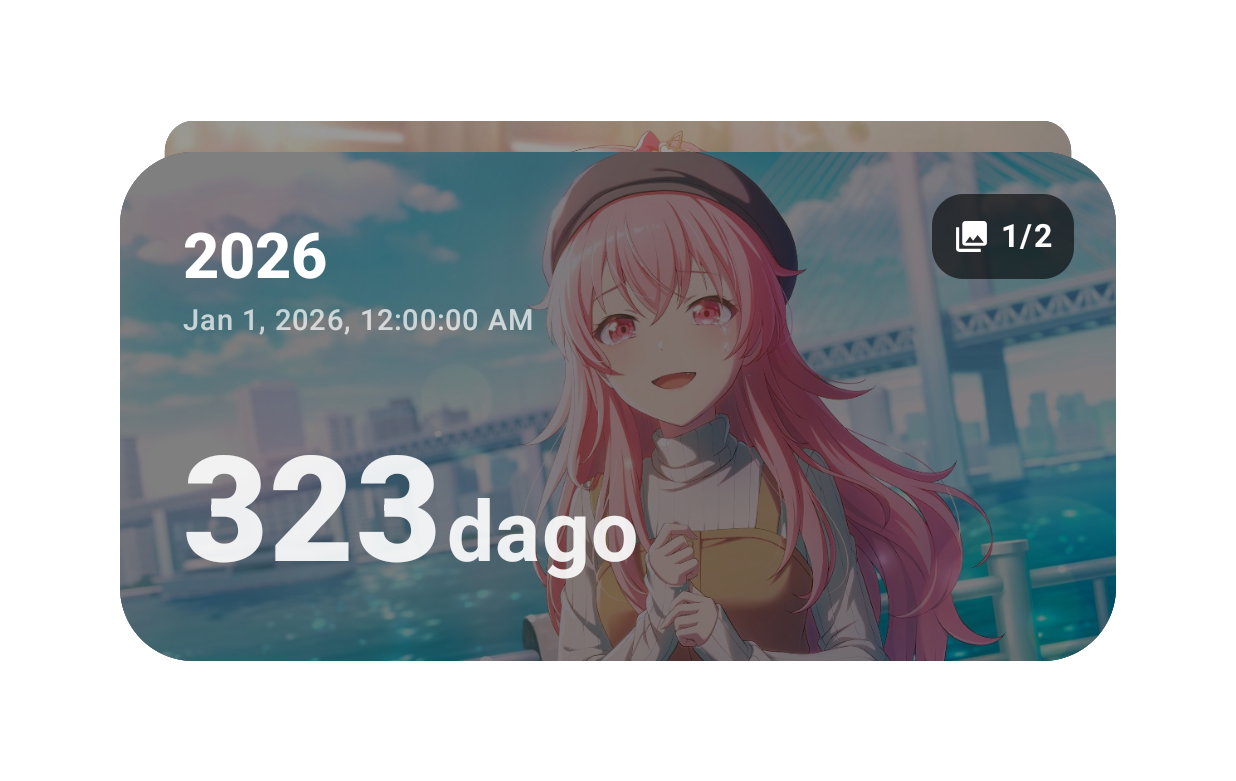
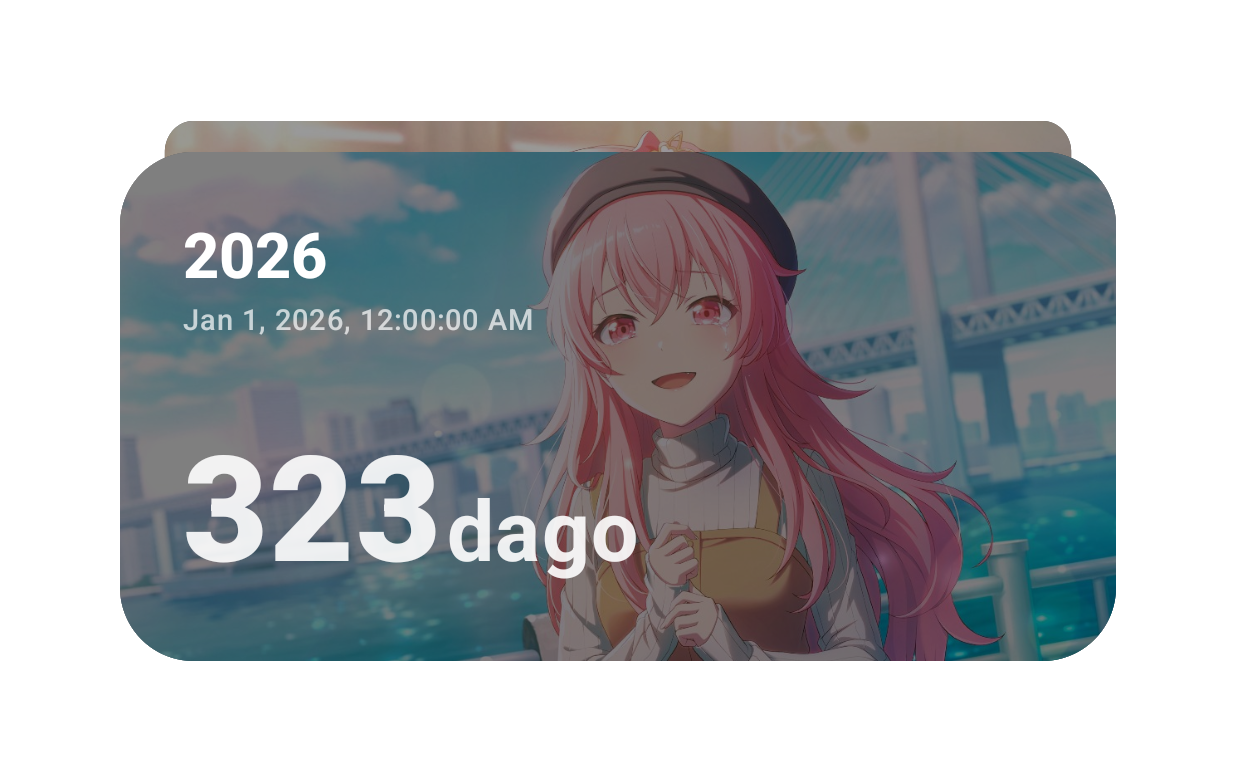
1.8.1

Changed region(s): [[0.7379, 0.2458, 0.8916, 0.3688]]

diff --git a/app/src/main/java/com/Zero23/countdown/MainActivity.kt b/app/src/main/java/com/Zero23/countdown/MainActivity.kt
@@ -361,7 +361,11 @@ class MainActivity : ComponentActivity() {
             }
 
             LaunchedEffect(lastSeenVersionCode) {
-                if (lastSeenVersionCode != -1 && currentVersionCode > 0 && lastSeenVersionCode < currentVersionCode) {
+                if (lastSeenVersionCode == null) {
+                    // Fresh install: record current version code without showing dialog
+                    dataManager.setLastSeenVersionCode(currentVersionCode)
+                } else if (lastSeenVersionCode != -1 && currentVersionCode > 0 && lastSeenVersionCode!! < currentVersionCode) {
+                    // Updated version: show changelog dialog and record new version code
                     showAutoChangelogDialog = true
                     dataManager.setLastSeenVersionCode(currentVersionCode)
                 }
@@ -2007,6 +2011,7 @@ fun SettingsScreen(
                 Text(
                     text = stringResource(R.string.appearance),
                     style = MaterialTheme.typography.bodyLarge,
+                    color = MaterialTheme.colorScheme.onBackground,
                     modifier = Modifier
                         .settingsSlideIn(0, rowsVisible, rowsEnterFromLeft)
                         .padding(top = 16.dp, bottom = 8.dp, start = 8.dp)
@@ -2205,6 +2210,7 @@ fun SettingsScreen(
                 Text(
                     text = stringResource(R.string.notifications),
                     style = MaterialTheme.typography.bodyLarge,
+                    color = MaterialTheme.colorScheme.onBackground,
                     modifier = Modifier
                         .settingsSlideIn(4, rowsVisible, rowsEnterFromLeft)
                         .padding(top = 24.dp, bottom = 8.dp, start = 8.dp)
@@ -2283,6 +2289,7 @@ fun SettingsScreen(
                 Text(
                     text = stringResource(R.string.backup_restore),
                     style = MaterialTheme.typography.bodyLarge,
+                    color = MaterialTheme.colorScheme.onBackground,
                     modifier = Modifier
                         .settingsSlideIn(6, rowsVisible, rowsEnterFromLeft)
                         .padding(top = 24.dp, bottom = 8.dp, start = 8.dp)
@@ -2339,6 +2346,7 @@ fun SettingsScreen(
                 Text(
                     text = stringResource(R.string.about),
                     style = MaterialTheme.typography.bodyLarge,
+                    color = MaterialTheme.colorScheme.onBackground,
                     modifier = Modifier
                         .settingsSlideIn(8, rowsVisible, rowsEnterFromLeft)
                         .padding(top = 24.dp, bottom = 8.dp, start = 8.dp)
@@ -2554,6 +2562,65 @@ fun getChangelogText(
     }
 }
 
+data class CurrentChangelogData(
+    val dateText: String,
+    val bodyText: String
+)
+
+fun getParsedCurrentChangelog(
+    context: Context,
+    configuration: Configuration,
+    noChangelogMsg: String,
+    aiDisclaimer: String
+): CurrentChangelogData {
+    val locale = configuration.locales[0]
+    val language = locale.language.lowercase()
+    val country = locale.country.uppercase()
+    val script = locale.script.lowercase()
+    val isSimplifiedChinese = language == "zh" && script != "hant" &&
+        country != "TW" && country != "HK" && country != "MO"
+    val assetName = when (language) {
+        "zh" -> if (isSimplifiedChinese) "changelog.txt" else "changelog_zh_tw.txt"
+        "ja" -> "changelog_ja.txt"
+        "ko" -> "changelog_ko.txt"
+        "ru" -> "changelog_ru.txt"
+        "fr" -> "changelog_fr.txt"
+        "de" -> "changelog_de.txt"
+        else -> "changelog_en.txt"
+    }
+    return try {
+        val rawContent = context.assets.open(assetName).bufferedReader().use { it.readText() }
+        val currentBlock = rawContent.substringBefore("-----------------------------").trim()
+        val lines = currentBlock.lines()
+        
+        var equalsCount = 0
+        val headerNonEqualLines = mutableListOf<String>()
+        val bodyLines = mutableListOf<String>()
+
+        for (line in lines) {
+            val trimmed = line.trim()
+            if (trimmed.startsWith("===")) {
+                equalsCount++
+                continue
+            }
+            if (equalsCount < 2) {
+                if (trimmed.isNotEmpty()) {
+                    headerNonEqualLines.add(trimmed)
+                }
+            } else {
+                bodyLines.add(line)
+            }
+        }
+        
+        val date = if (headerNonEqualLines.size >= 2) headerNonEqualLines[1] else ""
+        val rawBody = bodyLines.joinToString("\n").trim()
+        val finalBody = if (isSimplifiedChinese) rawBody else aiDisclaimer + rawBody
+        CurrentChangelogData(dateText = date, bodyText = finalBody)
+    } catch (_: Exception) {
+        CurrentChangelogData(dateText = "", bodyText = noChangelogMsg)
+    }
+}
+
 @Composable
 fun CurrentChangelogDialog(
     navController: NavController,
@@ -2564,20 +2631,46 @@ fun CurrentChangelogDialog(
     val noChangelogMsg = stringResource(R.string.no_changelog)
     val aiDisclaimer = stringResource(R.string.changelog_ai_disclaimer)
     val configuration = LocalConfiguration.current
-    val currentChangelogText = remember(configuration, noChangelogMsg, aiDisclaimer) {
-        getChangelogText(context, configuration, noChangelogMsg, aiDisclaimer, full = false)
+    
+    val versionName = remember {
+        try {
+            context.packageManager.getPackageInfo(context.packageName, 0).versionName ?: ""
+        } catch (_: Exception) {
+            ""
+        }
+    }
+
+    val parsedChangelog = remember(configuration, noChangelogMsg, aiDisclaimer) {
+        getParsedCurrentChangelog(context, configuration, noChangelogMsg, aiDisclaimer)
     }
 
     AlertDialog(
         onDismissRequest = onDismiss,
-        title = { Text(stringResource(R.string.changelog_full_title)) },
+        title = {
+            Column {
+                Text(
+                    text = stringResource(R.string.changelog_dialog_title, versionName),
+                    style = MaterialTheme.typography.titleLarge,
+                    fontWeight = FontWeight.Bold,
+                    color = MaterialTheme.colorScheme.onSurface
+                )
+                if (parsedChangelog.dateText.isNotEmpty()) {
+                    Text(
+                        text = parsedChangelog.dateText,
+                        style = MaterialTheme.typography.labelMedium,
+                        color = MaterialTheme.colorScheme.onSurfaceVariant.copy(alpha = 0.7f),
+                        modifier = Modifier.padding(top = 4.dp)
+                    )
+                }
+            }
+        },
         text = {
             Box(
                 modifier = Modifier
                     .fillMaxWidth()
                     .verticalScroll(rememberScrollState())
             ) {
-                Text(text = currentChangelogText, style = MaterialTheme.typography.bodyMedium)
+                Text(text = parsedChangelog.bodyText, style = MaterialTheme.typography.bodyMedium, color = MaterialTheme.colorScheme.onSurface)
             }
         },
         confirmButton = {
@@ -2666,7 +2759,7 @@ fun ChangelogScreen(dataManager: DataManager) {
                     .verticalScroll(rememberScrollState())
                     .padding(horizontal = 24.dp, vertical = 16.dp)
             ) {
-                Text(text = changelogText, style = MaterialTheme.typography.bodyMedium)
+                Text(text = changelogText, style = MaterialTheme.typography.bodyMedium, color = MaterialTheme.colorScheme.onBackground)
             }
         }
     }
@@ -4221,7 +4314,7 @@ fun CountdownItem(
     // the small badges. The front card draws them, and so does the stack layer that takes its
     // place while a swipe is running, which is what lets the two copies cross-fade.
     val cardLabels: @Composable BoxScope.(Float) -> Unit = { labelsAlpha ->
-        if (count > 1) {
+        if (!isExporting && count > 1) {
             Row(
                 modifier = Modifier
                     .align(Alignment.TopEnd)
@@ -4607,7 +4700,7 @@ fun SmallCountdownItem(
     // the small badges. The front card draws them, and so does the stack layer that takes its
     // place while a swipe is running, which is what lets the two copies cross-fade.
     val cardLabels: @Composable BoxScope.(Float) -> Unit = { labelsAlpha ->
-        if (count > 1) {
+        if (!isExporting && count > 1) {
             Row(
                 modifier = Modifier
                     .align(Alignment.TopEnd)

diff --git a/app/src/main/java/com/Zero23/countdown/widget/CountdownWidgetProvider4x2.kt b/app/src/main/java/com/Zero23/countdown/widget/CountdownWidgetProvider4x2.kt
@@ -112,12 +112,12 @@ class CountdownWidgetProvider4x2 : AppWidgetProvider() {
             }
 
             val absDuration = duration.abs()
-            val totalDays = absDuration.toDays()
-            val totalHours = absDuration.toHours()
-            val totalMinutes = absDuration.toMinutes()
-            val totalSeconds = absDuration.seconds
+            val days = absDuration.toDays()
+            val hours = absDuration.toHours() % 24
+            val minutes = absDuration.toMinutes() % 60
 
             val isPast = duration.isNegative
+            val ago = if (isPast) context.getString(R.string.ago_suffix) else ""
             
             val actualTextColor = if (event.backgroundImageUri != null) textColor else Color.WHITE
             val secondaryTextColor = if (event.backgroundImageUri != null) textColor else "#99000000".toColorInt()
@@ -126,32 +126,55 @@ class CountdownWidgetProvider4x2 : AppWidgetProvider() {
             setWidgetText(views, R.id.widget_title, R.id.widget_title_img, event.name, 22f, actualTextColor, customTypeface, context)
             setWidgetText(views, R.id.widget_target_label, R.id.widget_target_label_img, target.format(DateTimeFormatter.ofPattern("yyyy-MM-dd HH:mm")), 12f, labelColor, customTypeface, context)
 
-            val (displayValue, displayUnitStr) = when {
-                totalDays > 0 -> {
-                    val hasRemainder = absDuration.minusDays(totalDays).seconds > 0
-                    val daysVal = if (hasRemainder) totalDays + 1 else totalDays
-                    daysVal.toString() to context.getString(R.string.unit_days)
+            if (isPast) {
+                val totalDays = absDuration.toDays()
+                val totalHours = absDuration.toHours()
+                val totalMinutes = absDuration.toMinutes()
+                val totalSeconds = absDuration.seconds
+
+                val (displayValue, displayUnitStr) = when {
+                    totalDays > 0 -> {
+                        val hasRemainder = absDuration.minusDays(totalDays).seconds > 0
+                        val daysVal = if (hasRemainder) totalDays + 1 else totalDays
+                        daysVal.toString() to context.getString(R.string.unit_days)
+                    }
+                    totalHours > 0 -> {
+                        val hasRemainder = absDuration.minusHours(totalHours).seconds > 0
+                        val hoursVal = if (hasRemainder) totalHours + 1 else totalHours
+                        hoursVal.toString() to context.getString(R.string.unit_hours)
+                    }
+                    totalMinutes > 0 -> {
+                        val hasRemainder = absDuration.minusMinutes(totalMinutes).seconds > 0
+                        val minutesVal = if (hasRemainder) totalMinutes + 1 else totalMinutes
+                        minutesVal.toString() to context.getString(R.string.unit_minutes)
+                    }
+                    else -> {
+                        totalSeconds.toString() to context.getString(R.string.unit_seconds)
+                    }
                 }
-                totalHours > 0 -> {
-                    val hasRemainder = absDuration.minusHours(totalHours).seconds > 0
-                    val hoursVal = if (hasRemainder) totalHours + 1 else totalHours
-                    hoursVal.toString() to context.getString(R.string.unit_hours)
-                }
-                totalMinutes > 0 -> {
-                    val hasRemainder = absDuration.minusMinutes(totalMinutes).seconds > 0
-                    val minutesVal = if (hasRemainder) totalMinutes + 1 else totalMinutes
-                    minutesVal.toString() to context.getString(R.string.unit_minutes)
-                }
-                else -> {
-                    totalSeconds.toString() to context.getString(R.string.unit_seconds)
+
+                setWidgetText(views, R.id.widget_days, R.id.widget_days_img, displayValue, 42f, secondaryTextColor, customTypeface, context)
+                setWidgetText(views, R.id.widget_days_unit, R.id.widget_days_unit_img, displayUnitStr + ago, 22f, secondaryTextColor, customTypeface, context)
+                views.setViewVisibility(R.id.widget_time, View.GONE)
+                views.setViewVisibility(R.id.widget_time_img, View.GONE)
+            } else {
+                views.setViewVisibility(R.id.widget_time, View.VISIBLE)
+                views.setViewVisibility(R.id.widget_time_img, View.VISIBLE)
+
+                if (days > 0) {
+                    setWidgetText(views, R.id.widget_days, R.id.widget_days_img, days.toString(), 42f, secondaryTextColor, customTypeface, context)
+                    setWidgetText(views, R.id.widget_days_unit, R.id.widget_days_unit_img, context.getString(R.string.unit_days), 22f, secondaryTextColor, customTypeface, context)
+                    setWidgetText(views, R.id.widget_time, R.id.widget_time_img, "$hours${context.getString(R.string.unit_hours)} $minutes${context.getString(R.string.unit_minutes)}", 16f, secondaryTextColor, customTypeface, context)
+                } else if (hours > 0) {
+                    setWidgetText(views, R.id.widget_days, R.id.widget_days_img, hours.toString(), 42f, secondaryTextColor, customTypeface, context)
+                    setWidgetText(views, R.id.widget_days_unit, R.id.widget_days_unit_img, context.getString(R.string.unit_hours), 22f, secondaryTextColor, customTypeface, context)
+                    setWidgetText(views, R.id.widget_time, R.id.widget_time_img, "$minutes${context.getString(R.string.unit_minutes)}", 16f, secondaryTextColor, customTypeface, context)
+                } else {
+                    setWidgetText(views, R.id.widget_days, R.id.widget_days_img, minutes.toString(), 42f, secondaryTextColor, customTypeface, context)
+                    setWidgetText(views, R.id.widget_days_unit, R.id.widget_days_unit_img, context.getString(R.string.unit_minutes), 22f, secondaryTextColor, customTypeface, context)
+                    setWidgetText(views, R.id.widget_time, R.id.widget_time_img, "", 16f, secondaryTextColor, customTypeface, context)
                 }
             }
-            val ago = if (isPast) context.getString(R.string.ago_suffix) else ""
-
-            setWidgetText(views, R.id.widget_days, R.id.widget_days_img, displayValue, 42f, secondaryTextColor, customTypeface, context)
-            setWidgetText(views, R.id.widget_days_unit, R.id.widget_days_unit_img, displayUnitStr + ago, 22f, secondaryTextColor, customTypeface, context)
-            views.setViewVisibility(R.id.widget_time, View.GONE)
-            views.setViewVisibility(R.id.widget_time_img, View.GONE)
         } else {
             views.setViewVisibility(R.id.widget_background_image, View.GONE)
             views.setViewVisibility(R.id.widget_background_overlay, View.GONE)

diff --git a/app/src/main/java/com/Zero23/countdown/ui/theme/Theme.kt b/app/src/main/java/com/Zero23/countdown/ui/theme/Theme.kt
@@ -76,10 +76,20 @@ fun CountDownTheme(
 
         darkTheme -> darkColorScheme(
             primary = Purple80,
+            onPrimary = Color.White,
             secondary = PurpleGrey80,
+            onSecondary = Color.White,
             tertiary = Pink80,
+            onTertiary = Color.White,
             background = Color(0xFF121212),
-            surface = Color(0xFF1E1E1E)
+            onBackground = Color.White,
+            surface = Color(0xFF1E1E1E),
+            onSurface = Color.White,
+            onSurfaceVariant = Color.White.copy(alpha = 0.7f),
+            primaryContainer = Color(0xFF2D2D2D),
+            onPrimaryContainer = Color.White,
+            secondaryContainer = Color(0xFF252525),
+            onSecondaryContainer = Color.White
         )
         else -> LightColorScheme
     }

diff --git a/app/src/main/java/com/Zero23/countdown/data/DataManager.kt b/app/src/main/java/com/Zero23/countdown/data/DataManager.kt
@@ -260,8 +260,8 @@ class DataManager(private val context: Context) {
         preferences[appBackgroundThemeColorKey]
     }
 
-    val lastSeenVersionCode: Flow<Int> = context.dataStore.data.map { preferences ->
-        preferences[lastSeenVersionCodeKey] ?: 0
+    val lastSeenVersionCode: Flow<Int?> = context.dataStore.data.map { preferences ->
+        preferences[lastSeenVersionCodeKey]
     }
 
     suspend fun setLastSeenVersionCode(code: Int) {
